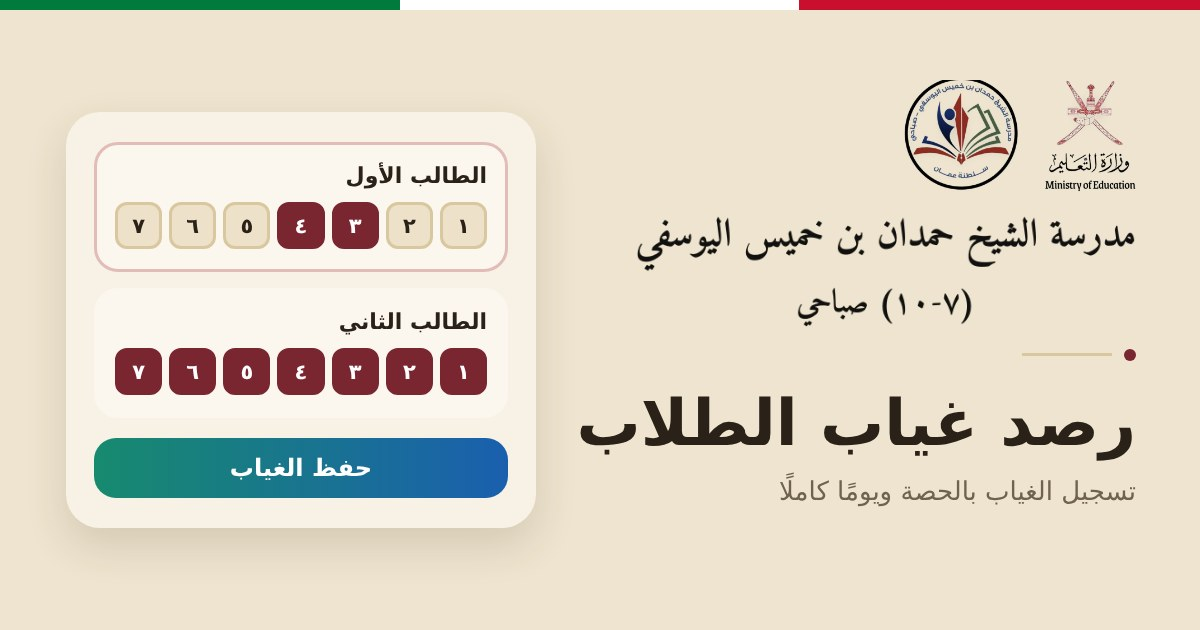
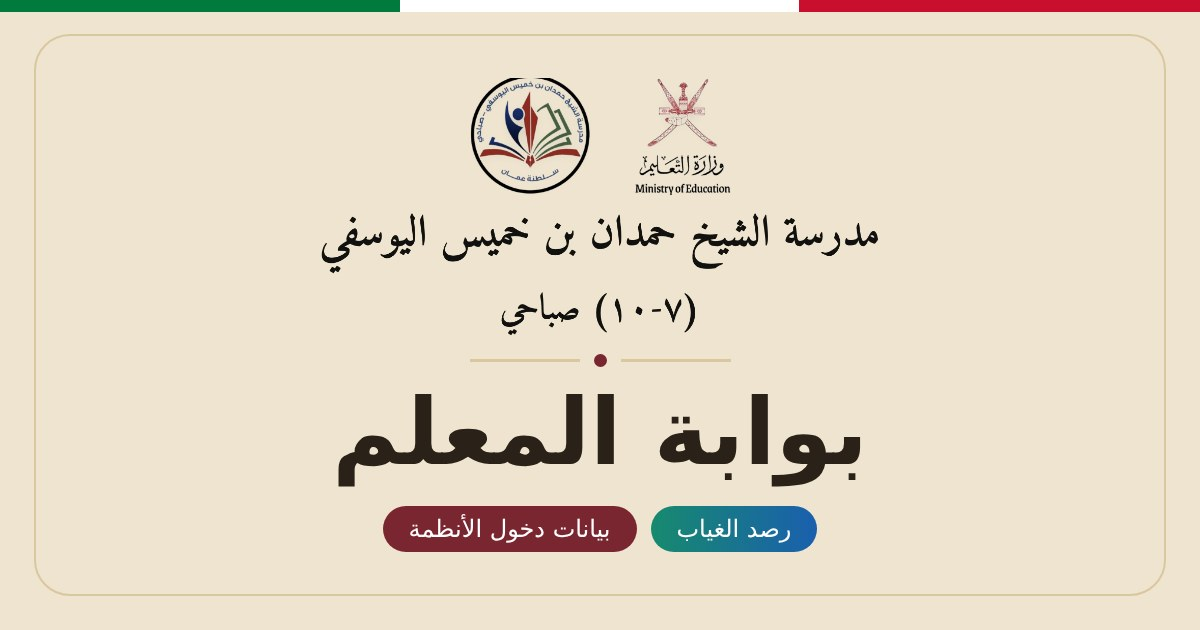
Add files via upload

diff --git a/index.html b/index.html
@@ -3,18 +3,18 @@
 <head>
 <meta charset="utf-8">
 <meta name="viewport" content="width=device-width, initial-scale=1, viewport-fit=cover">
-<meta name="description" content="نموذج رصد غياب الطلاب بالحصة واليوم الكامل — مدرسة الشيخ حمدان بن خميس اليوسفي (7-10) صباحي">
+<meta name="description" content="بوابة المعلم: رصد غياب الطلاب وبيانات دخول الأنظمة — مدرسة الشيخ حمدان بن خميس اليوسفي (7-10) صباحي">
 <meta property="og:type" content="website">
 <meta property="og:site_name" content="مدرسة الشيخ حمدان بن خميس اليوسفي">
-<meta property="og:title" content="رصد غياب الطلاب | مدرسة الشيخ حمدان بن خميس اليوسفي">
-<meta property="og:description" content="نموذج المعلم لرصد الغياب بالحصة أو يومًا كاملًا، وعرض سجل الغياب.">
+<meta property="og:title" content="بوابة المعلم | مدرسة الشيخ حمدان بن خميس اليوسفي">
+<meta property="og:description" content="رصد غياب الطلاب بالحصة أو يومًا كاملًا، وبيانات دخولك للبوابة التعليمية ونور والبريد ومورد وإجادة ومنظرة.">
 <meta property="og:url" content="https://hamdanschool2006-maker.github.io/absence-form/">
 <meta property="og:image" content="https://hamdanschool2006-maker.github.io/absence-form/preview.jpg">
 <meta property="og:image:secure_url" content="https://hamdanschool2006-maker.github.io/absence-form/preview.jpg">
 <meta property="og:image:type" content="image/jpeg">
 <meta property="og:image:width" content="1200">
 <meta property="og:image:height" content="630">
-<meta property="og:image:alt" content="رصد غياب الطلاب — مدرسة الشيخ حمدان بن خميس اليوسفي">
+<meta property="og:image:alt" content="بوابة المعلم — مدرسة الشيخ حمدان بن خميس اليوسفي">
 <meta property="og:locale" content="ar_OM">
 <meta name="twitter:card" content="summary_large_image">
 <meta name="twitter:image" content="https://hamdanschool2006-maker.github.io/absence-form/preview.jpg">
@@ -23,10 +23,10 @@
 <link rel="manifest" href="manifest.webmanifest">
 <meta name="apple-mobile-web-app-capable" content="yes">
 <meta name="mobile-web-app-capable" content="yes">
-<meta name="apple-mobile-web-app-title" content="رصد الغياب">
+<meta name="apple-mobile-web-app-title" content="بوابة المعلم">
 <meta name="apple-mobile-web-app-status-bar-style" content="default">
 <meta name="theme-color" content="#eee4cf">
-<title>رصد الغياب | مدرسة الشيخ حمدان بن خميس اليوسفي</title>
+<title>بوابة المعلم | مدرسة الشيخ حمدان بن خميس اليوسفي</title>
 <link rel="preconnect" href="https://fonts.googleapis.com">
 <link rel="preconnect" href="https://fonts.gstatic.com" crossorigin>
 <link rel="preconnect" href="https://script.google.com">
@@ -158,6 +158,34 @@ input[type=date].ctl::-webkit-date-and-time-value{text-align:right}
 .tr .sum2{display:block;font-weight:400;font-size:12px;color:var(--muted);margin-top:2px}
 .tr em{font-style:normal;font-size:13px;color:var(--muted);white-space:nowrap;text-align:left}
 .tr.s1{border-right:5px solid #178a6e}.tr.s2{border-right:5px solid #d99a2b}.tr.s3{border-right:5px solid var(--maroon)}
+.sys{background:var(--card);border-radius:22px;margin-bottom:12px;box-shadow:0 6px 18px rgba(90,70,40,.06);overflow:hidden}
+.sys summary{list-style:none;cursor:pointer;display:flex;align-items:center;gap:12px;padding:16px 18px}
+.sys summary::-webkit-details-marker{display:none}
+.sys summary .n{width:34px;height:34px;border-radius:11px;flex:none;display:flex;align-items:center;justify-content:center;color:#fff;font-weight:700;background:linear-gradient(135deg,var(--g1),var(--g2))}
+.sys summary b{font-family:"Amiri",serif;font-size:21px;flex:1}
+.sys summary::after{content:"‹";font-size:24px;color:var(--muted);transition:transform .2s}
+.sys[open] summary::after{transform:rotate(-90deg)}
+.sys .body{padding:0 18px 18px}
+.kv{background:var(--field);border:2px solid var(--border);border-radius:14px;padding:9px 12px;margin-top:10px;display:flex;align-items:center;gap:8px}
+.kv label{display:block;font-size:13px;color:var(--muted)}
+.kv .v{flex:1;min-width:0}
+.kv .v span{display:block;font-weight:700;direction:ltr;text-align:right;word-break:break-all;font-size:16px}
+.kv .v span.ar{direction:rtl;font-weight:500;font-size:15px}
+.ib{border:0;background:#fff;border-radius:10px;padding:7px 10px;font-size:13px;font-weight:500;flex:none;border:1px solid var(--border)}
+.hint{font-size:14px;color:var(--muted);margin:12px 2px 0;line-height:1.7}
+.hint b{color:var(--ink)}
+.acts{display:flex;flex-wrap:wrap;gap:8px;margin-top:12px}
+.act{flex:1 1 auto;text-align:center;text-decoration:none;border-radius:14px;padding:11px 12px;font-size:15px;font-weight:500;border:2px solid var(--border);background:var(--card);color:var(--ink)}
+.act.go{border:0;color:#fff;background:linear-gradient(90deg,var(--g1),var(--g2))}
+.act.req{border-color:var(--maroon);color:var(--maroon)}
+.act:disabled{opacity:.6;cursor:default}
+.sms{direction:ltr;display:inline-block;background:#fff;border:1px dashed var(--border);border-radius:8px;padding:0 8px;font-weight:700;color:var(--ink)}
+.me{background:var(--card);border-radius:22px;padding:18px;margin-bottom:16px;box-shadow:0 6px 18px rgba(90,70,40,.06);border-top:5px solid var(--g1)}
+.me h3{margin:0;font-family:"Amiri",serif;font-size:23px;line-height:1.4}
+.me .job{color:var(--muted);font-size:15px;margin-bottom:6px}
+.me .grid{display:grid;grid-template-columns:1fr 1fr;gap:8px}
+.me .grid .kv{margin-top:0}
+.me .grid .wide{grid-column:1/-1}
 .empty{text-align:center;color:var(--muted);padding:20px}
 
 .toast{position:fixed;top:calc(14px + env(safe-area-inset-top));left:16px;right:16px;max-width:500px;margin:auto;z-index:9;
@@ -175,7 +203,8 @@ input[type=date].ctl::-webkit-date-and-time-value{text-align:right}
 
   <!-- الدخول -->
   <section id="loginView">
-    <h2 class="title">رصد الغياب — دخول المعلم</h2>
+    <h2 class="title">بوابة المعلم</h2>
+    <div class="who">سجّل دخولك بالرقم المدني وكلمة المرور.</div>
     <div class="card">
       <div class="field"><label for="civil">الرقم المدني</label><input class="ctl" id="civil" inputmode="numeric" autocomplete="username"></div>
       <div class="field"><label for="pass">كلمة المرور</label><input class="ctl" id="pass" type="password" autocomplete="current-password"></div>
@@ -187,8 +216,36 @@ input[type=date].ctl::-webkit-date-and-time-value{text-align:right}
 
   <!-- الرئيسية -->
   <section id="homeView" class="hidden">
-    <h2 class="title">مرحبًا بك</h2>
-    <div class="who" id="who"></div>
+    <h2 class="title">بوابة المعلم</h2>
+    <div id="meWrap"></div>
+    <div class="tiles">
+      <button class="tile" id="goSys">
+        <span class="ic"><svg viewBox="0 0 24 24" width="30" height="30" fill="none" stroke="#fff" stroke-width="2" stroke-linecap="round" stroke-linejoin="round"><rect x="3" y="3" width="7" height="7" rx="1.5"/><rect x="14" y="3" width="7" height="7" rx="1.5"/><rect x="3" y="14" width="7" height="7" rx="1.5"/><circle cx="17.5" cy="17.5" r="3.2"/><path d="M19.8 19.8L22 22"/></svg></span>
+        <b>الأنظمة</b><small>البوابة التعليمية، نور، البريد، مورد، إجادة، منظرة</small>
+      </button>
+      <button class="tile" id="goAbs">
+        <span class="ic"><svg viewBox="0 0 24 24" width="30" height="30" fill="none" stroke="#fff" stroke-width="2" stroke-linecap="round" stroke-linejoin="round"><rect x="5" y="3" width="14" height="18" rx="2"/><path d="M9 3h6v3H9z"/><path d="M9 12l2 2 4-4"/></svg></span>
+        <b>رصد الغياب</b><small>رصد غياب الطلاب وسجل الغياب</small>
+      </button>
+    </div>
+    <details class="install" id="installCard">
+      <summary>أضف بوابة المعلم إلى الشاشة الرئيسية للهاتف</summary>
+      <div class="os" id="osIos"><b>آيفون (Safari)</b>
+        <ol><li>افتح الرابط في متصفح <b>Safari</b> (وليس من داخل الواتساب مباشرة).</li>
+        <li>اضغط زر المشاركة <span class="k">⬆</span> أسفل الشاشة.</li>
+        <li>اختر <b>إضافة إلى الشاشة الرئيسية</b>، ثم <b>إضافة</b>.</li></ol></div>
+      <div class="os" id="osAnd"><b>أندرويد (Chrome)</b>
+        <ol><li>افتح الرابط في متصفح <b>Chrome</b>.</li>
+        <li>اضغط النقاط الثلاث <span class="k">⋮</span> أعلى الشاشة.</li>
+        <li>اختر <b>إضافة إلى الشاشة الرئيسية</b> أو <b>تثبيت التطبيق</b>، ثم <b>إضافة</b>.</li></ol></div>
+      <p class="tip">ستظهر أيقونة شعار المدرسة في هاتفك، ومع «تذكرني» تفتح بوابة المعلم مباشرة دون إدخال البيانات.</p>
+    </details>
+    <button class="back" id="logoutBtn">› تسجيل الخروج</button>
+  </section>
+
+  <!-- قسم رصد الغياب -->
+  <section id="absView" class="hidden">
+    <h2 class="title">رصد الغياب</h2>
     <div class="tiles">
       <button class="tile" id="goRecord">
         <span class="ic"><svg viewBox="0 0 24 24" width="30" height="30" fill="none" stroke="#fff" stroke-width="2" stroke-linecap="round" stroke-linejoin="round"><rect x="5" y="3" width="14" height="18" rx="2"/><path d="M9 3h6v3H9z"/><path d="M9 12l2 2 4-4"/></svg></span>
@@ -203,19 +260,7 @@ input[type=date].ctl::-webkit-date-and-time-value{text-align:right}
         <b>سجل الدخول</b><small>من دخل من المعلمين ورصد الغياب في يوم تختاره</small>
       </button>
     </div>
-    <details class="install" id="installCard">
-      <summary>أضف النموذج إلى الشاشة الرئيسية للهاتف</summary>
-      <div class="os" id="osIos"><b>آيفون (Safari)</b>
-        <ol><li>افتح الرابط في متصفح <b>Safari</b> (وليس من داخل الواتساب مباشرة).</li>
-        <li>اضغط زر المشاركة <span class="k">⬆</span> أسفل الشاشة.</li>
-        <li>اختر <b>إضافة إلى الشاشة الرئيسية</b>، ثم <b>إضافة</b>.</li></ol></div>
-      <div class="os" id="osAnd"><b>أندرويد (Chrome)</b>
-        <ol><li>افتح الرابط في متصفح <b>Chrome</b>.</li>
-        <li>اضغط النقاط الثلاث <span class="k">⋮</span> أعلى الشاشة.</li>
-        <li>اختر <b>إضافة إلى الشاشة الرئيسية</b> أو <b>تثبيت التطبيق</b>، ثم <b>إضافة</b>.</li></ol></div>
-      <p class="tip">ستظهر أيقونة شعار المدرسة في هاتفك، ومع «تذكرني» يفتح النموذج مباشرة دون إدخال البيانات.</p>
-    </details>
-    <button class="back" id="logoutBtn">› تسجيل الخروج</button>
+    <button class="back" data-home>› رجوع للخلف</button>
   </section>
 
   <!-- رصد الغياب -->
@@ -231,6 +276,14 @@ input[type=date].ctl::-webkit-date-and-time-value{text-align:right}
     <button class="back" id="recBack">› رجوع للخلف</button>
   </section>
 
+  <!-- الأنظمة -->
+  <section id="sysView" class="hidden">
+    <h2 class="title">الأنظمة</h2>
+    <div class="who">بياناتك الخاصة فقط. لا تشاركها مع أحد.</div>
+    <div id="sysWrap"><div class="empty">جارٍ التحميل…</div></div>
+    <button class="back" data-home>› رجوع للخلف</button>
+  </section>
+
   <!-- سجل الدخول -->
   <section id="statsView" class="hidden">
     <h2 class="title">سجل دخول المعلمين</h2>
@@ -239,7 +292,7 @@ input[type=date].ctl::-webkit-date-and-time-value{text-align:right}
       <button class="btn" id="stBtn">عرض</button>
     </div>
     <div id="stWrap"></div>
-    <button class="back" data-home>› رجوع للخلف</button>
+    <button class="back" data-abs>› رجوع للخلف</button>
   </section>
 
   <!-- سجل الغياب -->
@@ -263,7 +316,7 @@ input[type=date].ctl::-webkit-date-and-time-value{text-align:right}
       <button class="btn" id="logBtn">عرض</button>
     </div>
     <div id="logWrap"></div>
-    <button class="back" data-home>› رجوع للخلف</button>
+    <button class="back" data-abs>› رجوع للخلف</button>
   </section>
   <footer class="credit">تصميم أ. عبدالله الشكيلي<span>أخصائي أنظمة مدرسية</span></footer>
 </div>
@@ -310,10 +363,10 @@ async function rawCall(fn,...args){
 function applyMe(me){
   S.canLog=me.canLog!==false; store('absLog',S.canLog?'1':'0');
   const t=document.getElementById('goLog'); if(t) t.classList.toggle('hidden',!S.canLog);
-  if(!S.canLog && !document.getElementById('logView').classList.contains('hidden')){ show('homeView'); toast('لم تعد لديك صلاحية عرض سجل الغياب.',true); }
+  if(!S.canLog && !document.getElementById('logView').classList.contains('hidden')){ backToAbs(); toast('لم تعد لديك صلاحية عرض سجل الغياب.',true); }
   S.canStats=me.canStats===true; store('absStats',S.canStats?'1':'0');
   const g=document.getElementById('goStats'); if(g) g.classList.toggle('hidden',!S.canStats);
-  if(!S.canStats && !document.getElementById('statsView').classList.contains('hidden')){ show('homeView'); toast('لم تعد لديك صلاحية عرض سجل الدخول.',true); }
+  if(!S.canStats && !document.getElementById('statsView').classList.contains('hidden')){ backToAbs(); toast('لم تعد لديك صلاحية عرض سجل الدخول.',true); }
 }
 const msg=e=>(e&&e.message?e.message:String(e)).replace(/^Error:\s*/,'');
 function toast(t,bad){ const d=document.createElement('div'); d.className='toast'+(bad?' bad':''); d.textContent=t; document.body.appendChild(d); setTimeout(()=>d.remove(),bad?5000:3000); }
@@ -333,9 +386,9 @@ async function doLogin(){
 }
 $('loginBtn').onclick=doLogin;
 $('pass').addEventListener('keydown',e=>{ if(e.key==='Enter') doLogin(); });
-const VIEWS=['loginView','homeView','recordView','logView','statsView'];
+const VIEWS=['loginView','homeView','absView','recordView','logView','statsView','sysView'];
 function show(v){ VIEWS.forEach(x=>$(x).classList.toggle('hidden',x!==v)); window.scrollTo(0,0); }
-function logoutLocal(){ store('absToken',null); S.token=null; show('loginView'); $('pass').value=''; $('listWrap').innerHTML=''; $('logWrap').innerHTML=''; }
+function logoutLocal(){ store('absToken',null); S.token=null; SYS=null; show('loginView'); $('pass').value=''; $('listWrap').innerHTML=''; $('logWrap').innerHTML=''; }
 // «رجوع للخلف» في رصد الغياب: من قائمة الطلاب يعود لاختيار الصف والشعبة، ومن الاختيار يعود للرئيسية
 $('recBack').onclick=()=>{
   if($('listWrap').innerHTML.trim()){
@@ -344,8 +397,13 @@ $('recBack').onclick=()=>{
     $('pick').scrollIntoView({behavior:'smooth',block:'start'});
     return;
   }
-  show('homeView');
+  backToAbs();
 };
+// قسم رصد الغياب: إن لم يكن للمعلم إلا «رصد الغياب» يُفتح مباشرة دون قائمة وسيطة
+function absHasHub(){ return S.canLog||S.canStats; }
+function backToAbs(){ show(absHasHub()?'absView':'homeView'); }
+$('goAbs').onclick=()=>{ if(absHasHub()) show('absView'); else show('recordView'); };
+document.querySelectorAll('[data-abs]').forEach(b=>b.onclick=()=>backToAbs());
 document.querySelectorAll('[data-home]').forEach(b=>b.onclick=()=>{
   if(!$('recordView').classList.contains('hidden') && dirtyList().length && !confirm('لديك تغييرات لم تُحفظ. هل تريد الخروج دون حفظ؟')) return;
   show('homeView');
@@ -354,7 +412,7 @@ $('logoutBtn').onclick=()=>{ rawCall('logout',S.token,lget('absRemember')).catch
 
 function startApp(){
   show('homeView');
-  $('who').textContent='المعلم: '+S.name;
+  renderMe(); loadMe();
   $('goLog').classList.toggle('hidden',!S.canLog);
   $('goStats').classList.toggle('hidden',!S.canStats);
   const sd=$('stDate'); sd.max=S.today; if(!sd.value) sd.value=S.today; stShowDay();
@@ -370,6 +428,109 @@ $('goLog').onclick=async()=>{
   try{ await call('getClasses',S.token); }catch(e){ handleErr(e); return; }
   if(S.canLog) show('logView');
 };
+
+/* ---- بيانات المعلم في الصفحة الرئيسية ---- */
+function renderMe(){
+  const s=SYS||{};
+  $('meWrap').innerHTML='<div class="me"><h3>'+esc(s.name||S.name||'')+'</h3>'+(s.job?'<div class="job">'+esc(s.job)+'</div>':'')+
+    (SYS?'<div class="grid">'+kv('الرقم المدني',s.civil)+kv('رقم الملف',s.fileNo,{empty:'غير متوفر'})+
+      '<div class="wide">'+kv('البريد الإلكتروني',s.email,{empty:'غير متوفر لدينا'})+'</div></div>'
+      :'<div class="job">جارٍ تحميل بياناتك…</div>')+'</div>';
+  bindKv($('meWrap'));
+}
+async function loadMe(){
+  if(SYS) return;
+  try{ SYS=await call('getMySystems',S.token); renderMe(); }catch(e){ $('meWrap').querySelector('.job')&&($('meWrap').querySelector('.job').textContent=''); }
+}
+function bindKv(w){
+  w.querySelectorAll('[data-copy]').forEach(b=>b.onclick=()=>copyText($(b.dataset.copy).dataset.v));
+  w.querySelectorAll('[data-eye]').forEach(b=>b.onclick=()=>{ const e=$(b.dataset.eye), shown=b.textContent==='إخفاء';
+    e.textContent=shown?'••••••••':e.dataset.v; b.textContent=shown?'إظهار':'إخفاء'; });
+}
+
+/* ---- الأنظمة ---- */
+const SYS_LINKS={
+  portal:'https://home.moe.gov.om/',
+  noor:'https://lms.moe.gov.om/#networkfirst',
+  mail:'https://outlook.office.com/mail/',
+  mawred:'https://pext-hrss.mol.gov.om/OA_HTML/AppsLocalLogin.jsp',
+  ejada:'https://ejada.gov.om/Auth/login',
+  monzara:'https://eportal.moe.gov.om/egov/Login?returnurl=%2fegov'
+};
+let SYS=null;
+$('goSys').onclick=async()=>{
+  show('sysView');
+  if(SYS){ renderSys(); return; }
+  $('sysWrap').innerHTML='<div class="empty">جارٍ التحميل…</div>';
+  try{ SYS=await call('getMySystems',S.token); renderSys(); }
+  catch(e){ $('sysWrap').innerHTML='<div class="empty">تعذر تحميل البيانات. حاول مرة أخرى.</div>'; handleErr(e); }
+};
+function copyText(t){
+  const done=()=>toast('تم النسخ.');
+  if(navigator.clipboard&&window.isSecureContext){ navigator.clipboard.writeText(t).then(done,()=>fallback()); } else fallback();
+  function fallback(){ const a=document.createElement('textarea'); a.value=t; a.style.position='fixed'; a.style.opacity='0'; document.body.appendChild(a); a.select(); try{document.execCommand('copy'); done();}catch(e){} a.remove(); }
+}
+function kv(label,val,opt){
+  opt=opt||{};
+  if(!val) return '<div class="kv"><div class="v"><label>'+label+'</label><span class="ar">'+(opt.empty||'غير متوفر')+'</span></div></div>';
+  const id='k'+Math.random().toString(36).slice(2,8);
+  return '<div class="kv"><div class="v"><label>'+label+'</label><span id="'+id+'" data-v="'+esc(val)+'"'+(opt.secret?' data-s="1"':'')+'>'+(opt.secret?'••••••••':esc(val))+'</span></div>'+
+    (opt.secret?'<button class="ib" data-eye="'+id+'">إظهار</button>':'')+'<button class="ib" data-copy="'+id+'">نسخ</button></div>';
+}
+function reqBtn(sys){
+  const p=SYS.pending&&SYS.pending[{portal:'البوابة التعليمية',noor:'منصة نور',monzara:'منصة منظرة'}[sys]];
+  return p?'<button class="act req" disabled>✓ تم إرسال طلب التفعيل</button>':'<button class="act req" data-req="'+sys+'">طلب تفعيل</button>';
+}
+const goBtn=(k,t)=>'<a class="act go" href="'+SYS_LINKS[k]+'" target="_blank" rel="noopener">'+(t||'الدخول إلى الموقع')+'</a>';
+function renderSys(){
+  const s=SYS, civ=s.civil;
+  const ios=/iPhone|iPad|iPod/i.test(navigator.userAgent||'');
+  const smsHref='sms:90390'+(ios?'&':'?')+'body='+encodeURIComponent('U '+civ);
+  const pwChanged=s.noorPw==='تم تغييرها من قبل المستخدم';
+  const meCard='<div class="me"><h3>'+esc(s.name||S.name)+'</h3>'+(s.job?'<div class="job">'+esc(s.job)+'</div>':'')+
+    '<div class="grid">'+kv('الرقم المدني',civ)+kv('رقم الملف',s.fileNo,{empty:'غير متوفر'})+
+    '<div class="wide">'+kv('البريد الإلكتروني',s.email,{empty:'غير متوفر لدينا'})+'</div></div></div>';
+  const cards=[
+    ['البوابة التعليمية',
+      kv('اسم المستخدم',s.portalUser,{empty:'غير متوفر لدينا — اطلب التفعيل'})+
+      '<div class="hint"><b>كلمة المرور:</b> احصل عليها بإحدى طريقتين:<br>١- أرسل رسالة نصية <span class="sms">U '+esc(civ)+'</span> إلى الرقم <span class="sms">90390</span><br>٢- أو اضغط «طلب تفعيل» وسيتواصل معك أخصائي الأنظمة.</div>'+
+      '<div class="acts"><a class="act" href="'+smsHref+'">إرسال الرسالة النصية</a>'+reqBtn('portal')+'</div><div class="acts">'+goBtn('portal')+'</div>'],
+    s.hasNoor?['منصة نور',
+      kv('اسم المستخدم',s.noorUser||civ)+
+      (pwChanged?kv('كلمة المرور','',{empty:'غيّرتها أنت سابقًا — استخدم كلمتك الحالية'}):kv('كلمة المرور',s.noorPw,{secret:true,empty:'غير متوفرة لدينا'}))+
+      '<div class="hint">إذا فقدت كلمة المرور: اضغط «طلب تفعيل»، أو استخدم ميزة <b>«نسيت بيانات الدخول»</b> في موقع المنصة.</div>'+
+      '<div class="acts">'+reqBtn('noor')+goBtn('noor')+'</div>']:null,
+    ['البريد الإلكتروني',
+      kv('البريد الإلكتروني',s.email,{empty:'غير متوفر لدينا'})+
+      '<div class="hint"><b>كلمة المرور:</b> إذا نسيتها استخدم ميزة <b>«نسيت كلمة المرور»</b> في صفحة دخول البريد (Outlook).</div>'+
+      '<div class="acts">'+goBtn('mail')+'</div>'],
+    ['نظام مورد',
+      kv('اسم المستخدم (الرقم المدني)',civ)+
+      '<div class="hint"><b>كلمة المرور:</b> إذا نسيتها استخدم ميزة <b>«المساعدة في تسجيل الدخول»</b> في موقع نظام مورد.</div>'+
+      '<div class="acts">'+goBtn('mawred')+'</div>'],
+    ['منصة إجادة',
+      kv('اسم المستخدم (الرقم المدني)',civ)+
+      '<div class="hint"><b>كلمة المرور:</b> إذا نسيتها استخدم ميزة <b>«نسيت كلمة المرور»</b> في منصة إجادة.</div>'+
+      '<div class="acts">'+goBtn('ejada')+'</div>'],
+    ['منصة منظرة',
+      kv('اسم المستخدم (الرقم المدني)',civ)+
+      '<div class="hint"><b>كلمة المرور:</b> اضغط «طلب تفعيل»، أو استخدم ميزة <b>«نسيت كلمة المرور»</b> في موقع منصة منظرة.</div>'+
+      '<div class="acts">'+reqBtn('monzara')+goBtn('monzara')+'</div>']
+  ].filter(Boolean);
+  $('sysWrap').innerHTML=cards.map((c,i)=>'<details class="sys"><summary><span class="n">'+ar(i+1)+'</span><b>'+c[0]+'</b></summary><div class="body">'+c[1]+'</div></details>').join('');
+  const w=$('sysWrap');
+  bindKv(w);
+  w.querySelectorAll('[data-req]').forEach(b=>b.onclick=async()=>{
+    const sys=b.dataset.req;
+    if(!confirm('إرسال طلب تفعيل '+{portal:'البوابة التعليمية',noor:'منصة نور',monzara:'منصة منظرة'}[sys]+' إلى أخصائي الأنظمة؟')) return;
+    b.disabled=true; b.textContent='جارٍ الإرسال…';
+    try{ const r=await call('requestActivation',S.token,sys);
+      toast(r.already?'لديك طلب سابق قيد المتابعة.':'تم إرسال طلب التفعيل.');
+      SYS.pending=SYS.pending||{}; SYS.pending[{portal:'البوابة التعليمية',noor:'منصة نور',monzara:'منصة منظرة'}[sys]]=S.today;
+      b.textContent='✓ تم إرسال طلب التفعيل';
+    }catch(e){ b.disabled=false; b.textContent='طلب تفعيل'; handleErr(e); }
+  });
+}
 
 /* ---- سجل الدخول (إحصائية المعلمين اليومية) ---- */
 function stShowDay(){ const v=$('stDate').value; if(!v){$('stDay').textContent='';return;} const [y,m,d]=v.split('-').map(Number); $('stDay').textContent='يوم '+DAYS[new Date(Date.UTC(y,m-1,d)).getUTCDay()]; }
